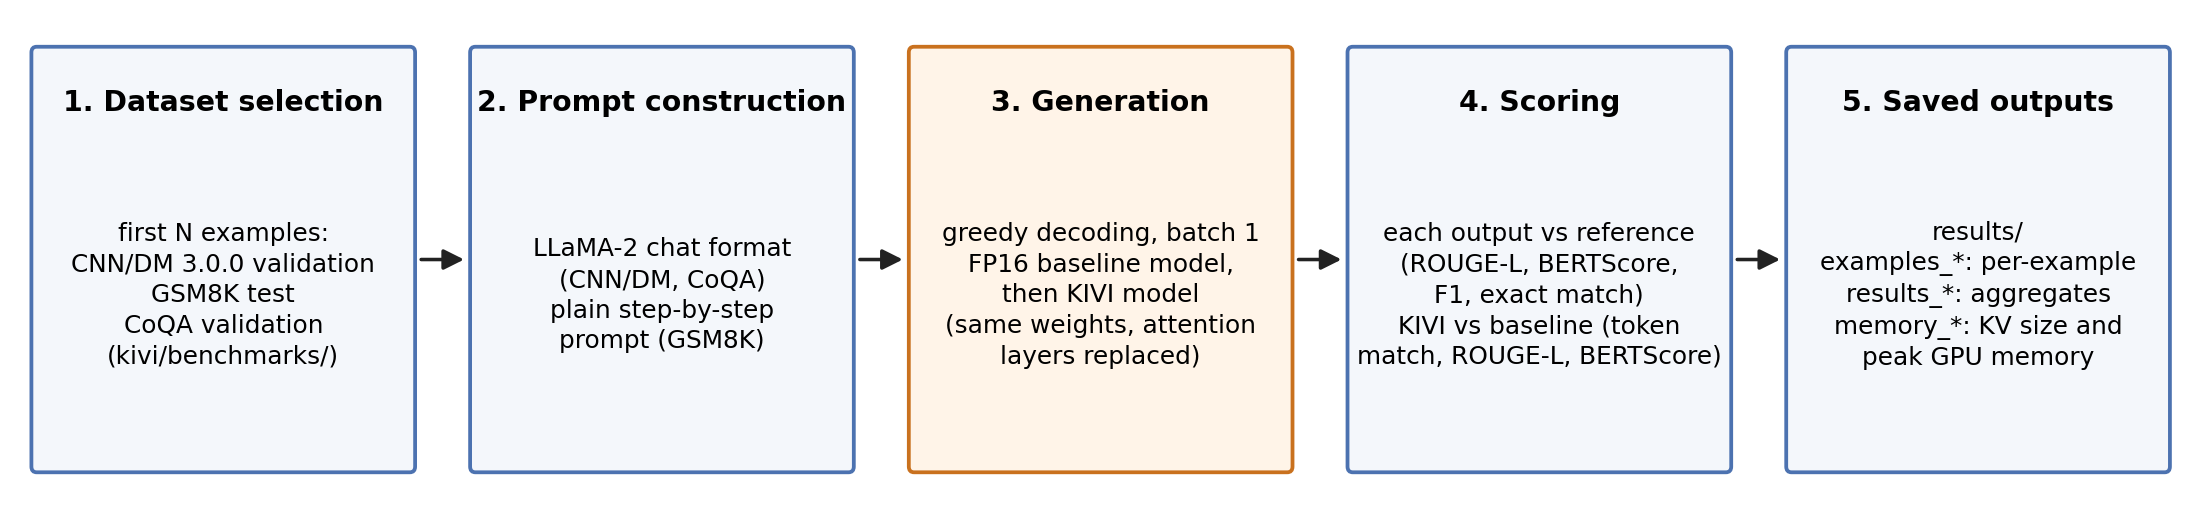
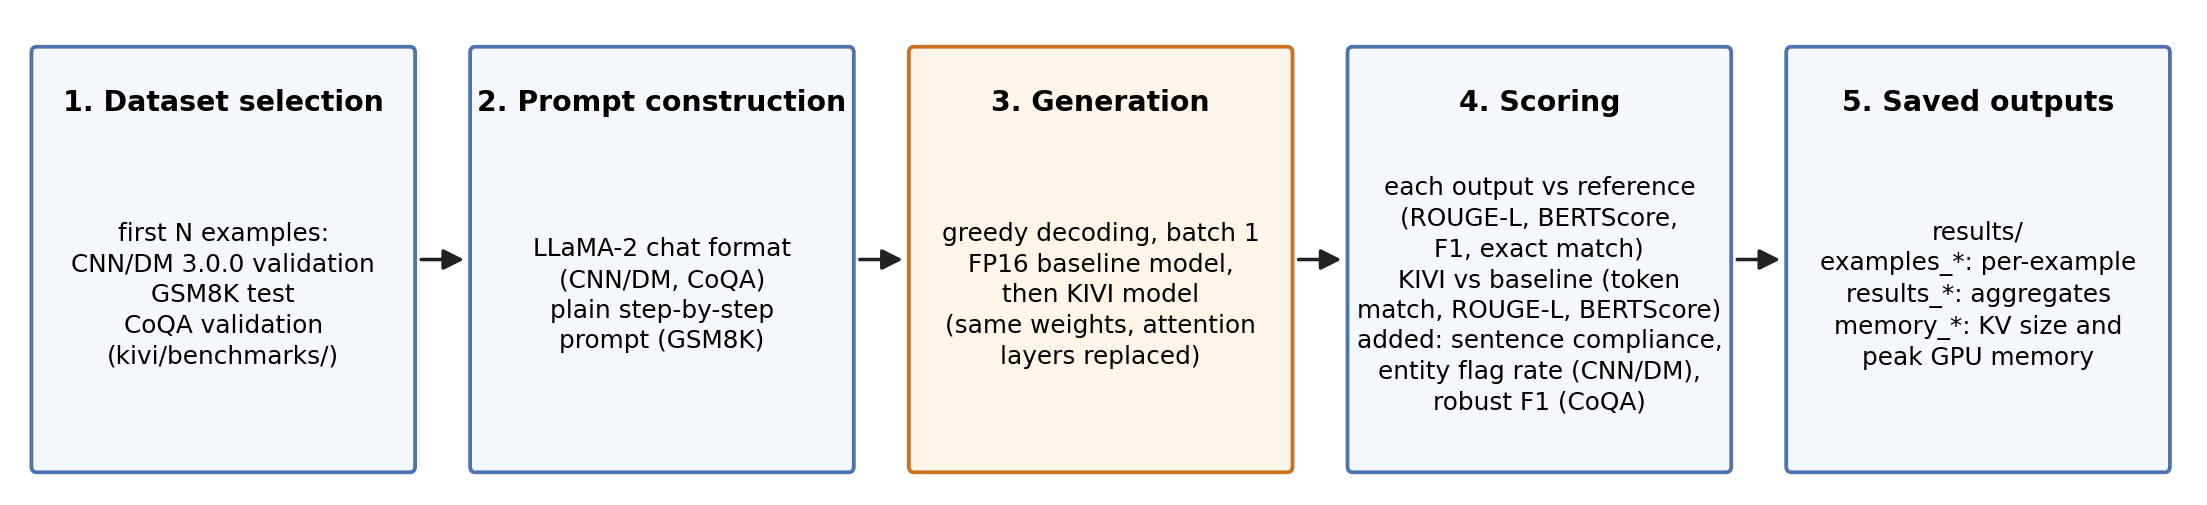
Fix figure text overflow, list added metrics, use MiB for memory

diff --git a/figures/make_figures.py b/figures/make_figures.py
@@ -201,7 +201,7 @@ def formula_panel(ax):
     ]
     for i, t in enumerate(lines):
         ax.text(0.07, 0.66 - i * 0.17, t, fontsize=12, va="center")
-    ax.text(0.6, 0.47, f"G = {G}, R = {R} (kivi/attention.py; same as the KIVI paper)\n"
+    ax.text(0.55, 0.47, f"G = {G}, R = {R} (kivi/attention.py; same as the KIVI paper)\n"
             "one cache per layer and per KV head\n"
             "prefill attention uses the exact FP16 keys and values;\n"
             "decoding dequantizes the cache, then runs standard attention",
@@ -334,7 +334,7 @@ def figure_results():
         ax.text(x, max(b, k) * 1.12 + 25, f"{b / k:.1f}x smaller", ha="center", fontsize=11, weight="bold")
     ax.set_xticks(list(xs))
     ax.set_xticklabels([f"{n}\n({'13B' if n == 'GSM8K' else '7B'})" for n in names])
-    ax.set_ylabel("MB per prompt (mean)")
+    ax.set_ylabel("MiB per prompt (mean)")
     ax.set_ylim(0, max(bvals) * 1.3 + 50)
     ax.set_title("Theoretical packed KV-cache size\n(not measured GPU memory)", fontsize=12)
     ax.legend(frameon=False, fontsize=11, loc="upper right")
@@ -363,7 +363,7 @@ def figure_workflow():
         ("3. Generation",
          "greedy decoding, batch 1\nFP16 baseline model,\nthen KIVI model\n(same weights, attention\nlayers replaced)"),
         ("4. Scoring",
-         "each output vs reference\n(ROUGE-L, BERTScore,\nF1, exact match)\nKIVI vs baseline (token\nmatch, ROUGE-L, BERTScore)"),
+         "each output vs reference\n(ROUGE-L, BERTScore,\nF1, exact match)\nKIVI vs baseline (token\nmatch, ROUGE-L, BERTScore)\nadded: sentence compliance,\nentity flag rate (CNN/DM),\nrobust F1 (CoQA)"),
         ("5. Saved outputs",
          "results/\nexamples_*: per-example\nresults_*: aggregates\nmemory_*: KV size and\npeak GPU memory"),
     ]

diff --git a/README.md b/README.md
@@ -37,8 +37,8 @@ Sources: `results/results_cnn_dm_7b_n100.json`, `results/results_gsm8k_13b_n50.j
 
 **Memory.** Two different quantities are saved in `results/memory_*.json`, and they should not be mixed:
 
-* **Theoretical packed KV-cache size** (figure, right panel): the cache size at the end of each generation, counting quantized values at 2 bits, plus the FP16 residual tokens and the FP16 scales and zero-points. Mean per prompt, FP16 vs KIVI: 501.6 vs 133.2 MB (CNN/DM), 205.1 vs 94.7 MB (GSM8K), 212.8 vs 71.2 MB (CoQA). The reduction is well below 16/2 = 8 times because every head keeps up to 128 recent tokens in FP16 and stores an FP16 scale and zero-point for every 32 values, and the prompts here are only a few hundred tokens long.
-* **Measured GPU peak memory** (`torch.cuda.max_memory_allocated`): this implementation stores the 2-bit levels in floating-point tensors (no bit-packing) and dequantizes the cache before attention, so it does not reduce measured memory. On CNN/DM the mean per-sample peak is 26,243 MB for the baseline and 26,911 MB for KIVI.
+* **Theoretical packed KV-cache size** (figure, right panel): the cache size at the end of each generation, counting quantized values at 2 bits, plus the FP16 residual tokens and the FP16 scales and zero-points. Mean per prompt, FP16 vs KIVI: 501.6 vs 133.2 MiB (CNN/DM), 205.1 vs 94.7 MiB (GSM8K), 212.8 vs 71.2 MiB (CoQA). The reduction is well below 16/2 = 8 times because every head keeps up to 128 recent tokens in FP16 and stores an FP16 scale and zero-point for every 32 values, and the prompts here are only a few hundred tokens long.
+* **Measured GPU peak memory** (`torch.cuda.max_memory_allocated`): this implementation stores the 2-bit levels in floating-point tensors (no bit-packing) and dequantizes the cache before attention, so it does not reduce measured memory. On CNN/DM the mean per-sample peak is 26,243 MiB for the baseline and 26,911 MiB for KIVI.
 
 Comparisons with StreamingLLM and ZipCache are in `report.pdf`. They are not repeated here because those methods were run separately by teammates with their own code and settings, and the report's tables combine different sample counts.
 
